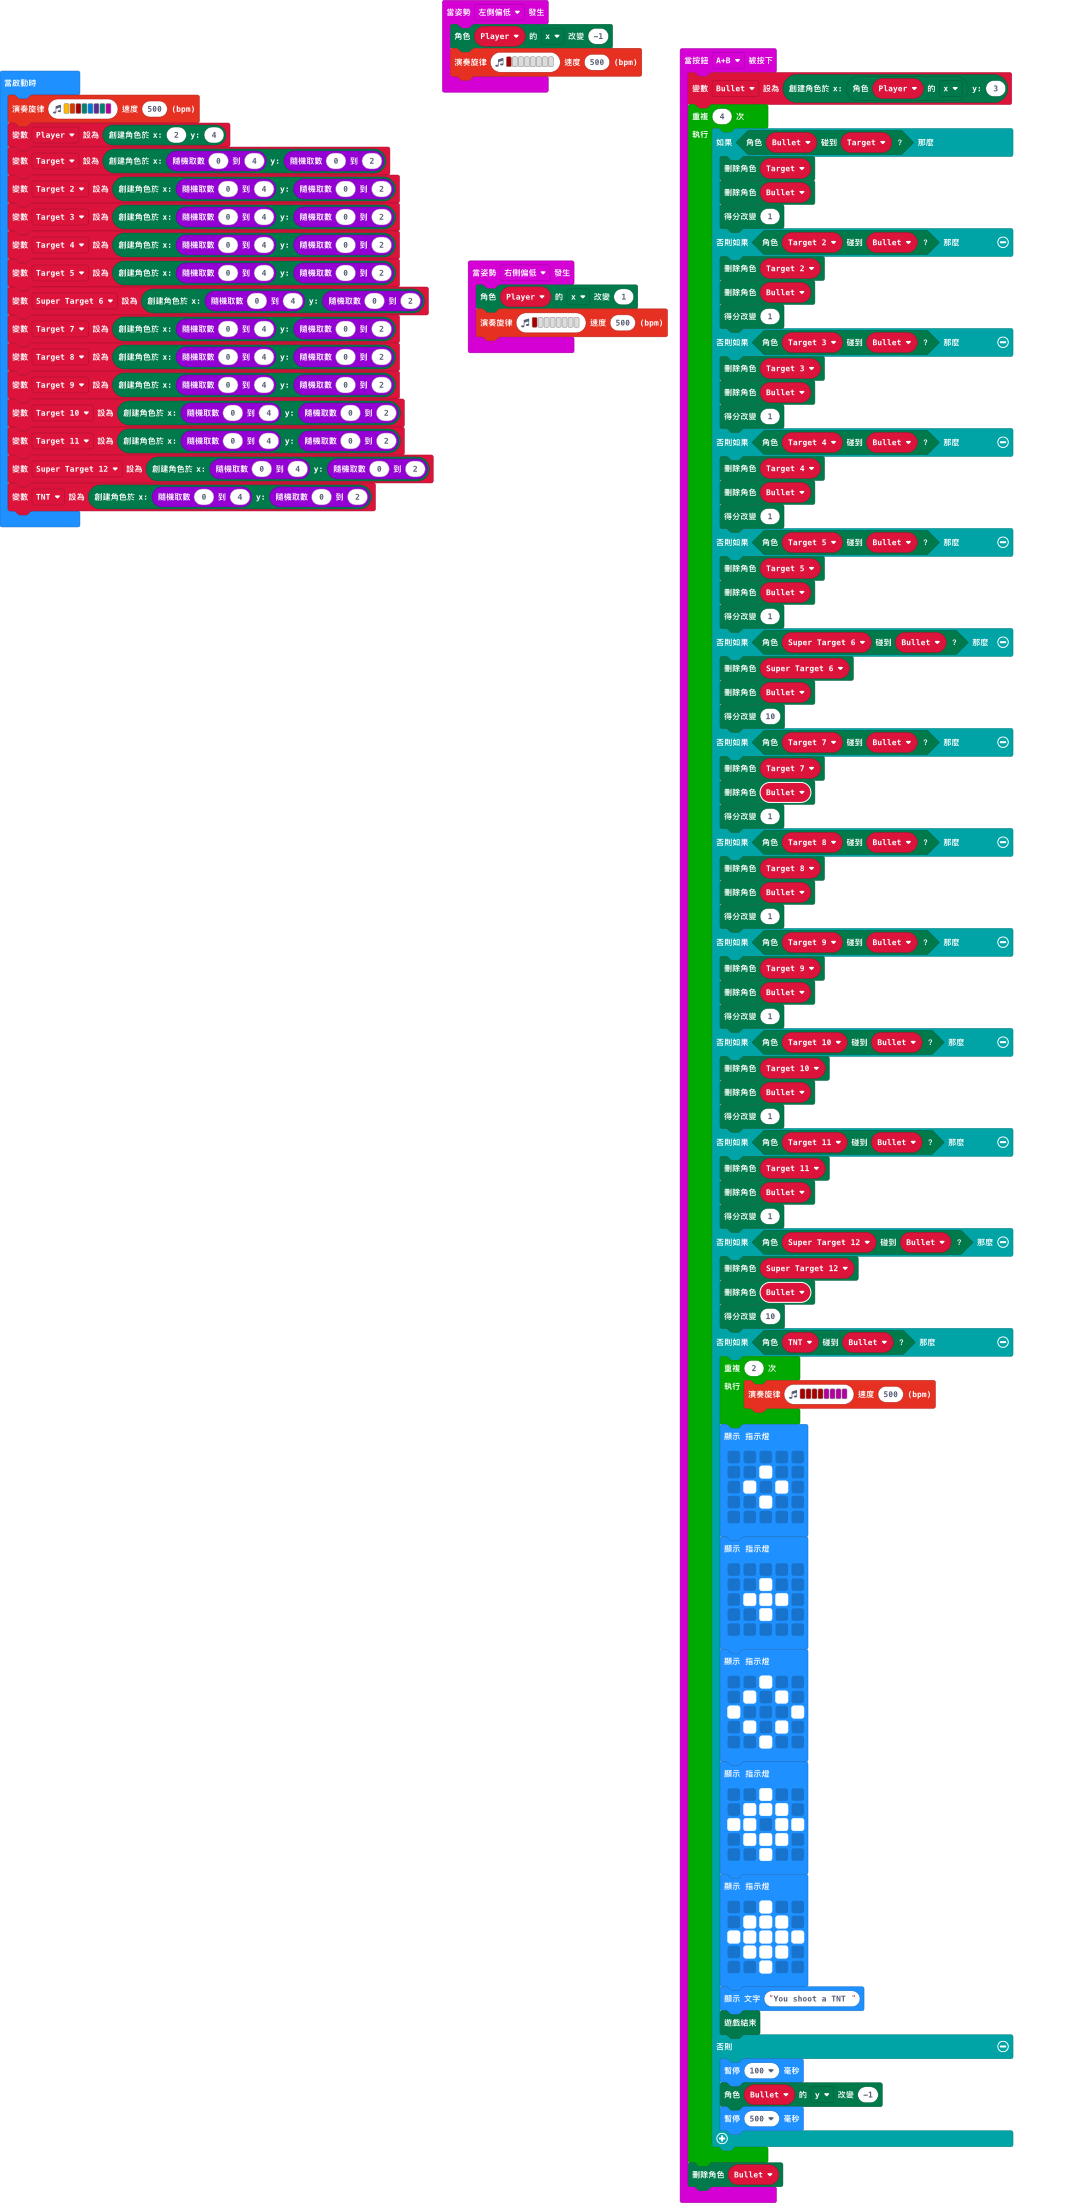
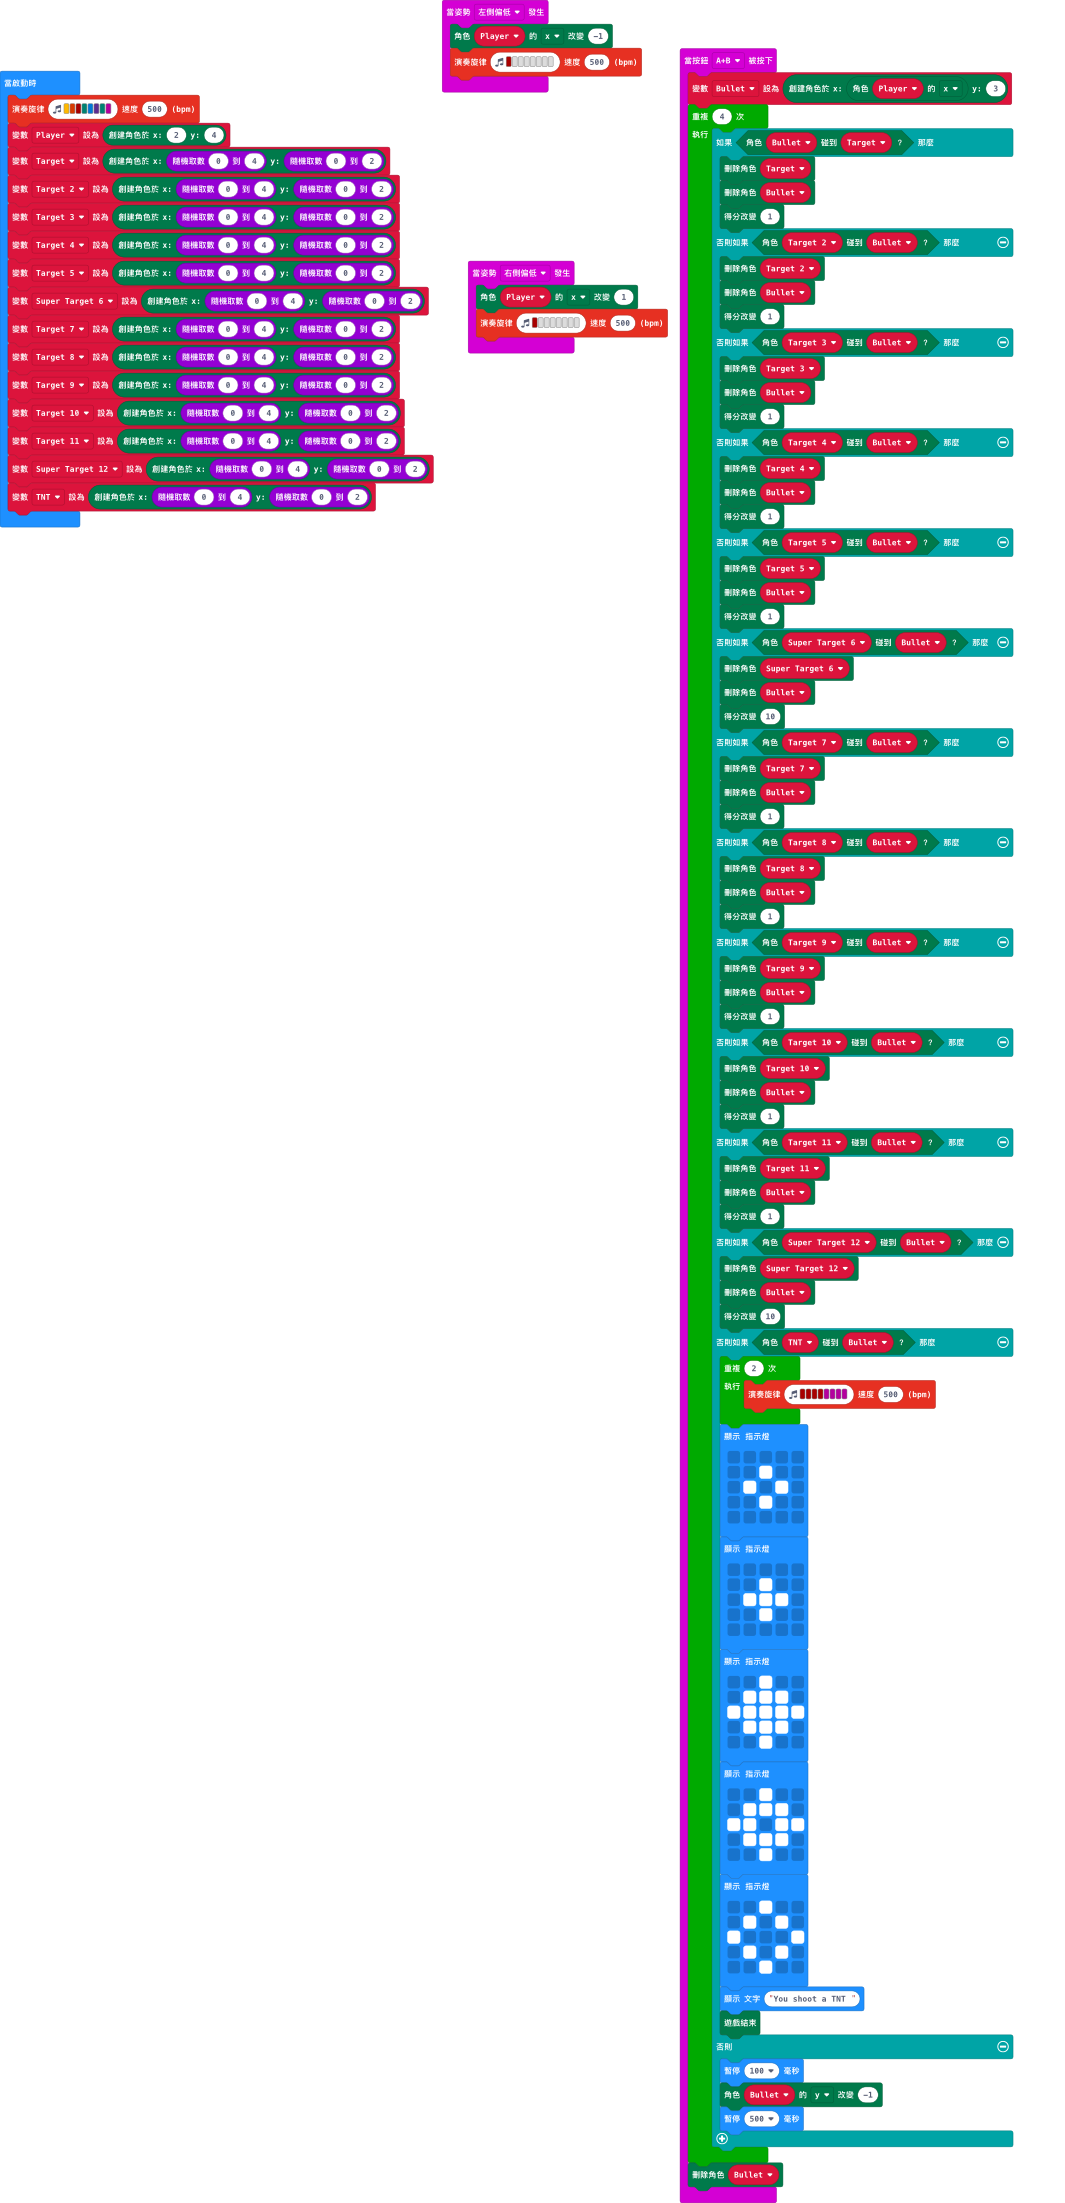
更新 main.blocks, main.ts, main.py

diff --git a/main.ts b/main.ts
@@ -73,9 +73,9 @@ input.onButtonPressed(Button.AB, function () {
                 `)
             basic.showLeds(`
                 . . # . .
-                . # . # .
-                # . . . #
-                . # . # .
+                . # # # .
+                # # # # #
+                . # # # .
                 . . # . .
                 `)
             basic.showLeds(`
@@ -87,9 +87,9 @@ input.onButtonPressed(Button.AB, function () {
                 `)
             basic.showLeds(`
                 . . # . .
-                . # # # .
-                # # # # #
-                . # # # .
+                . # . # .
+                # . . . #
+                . # . # .
                 . . # . .
                 `)
             basic.showString("You shoot a TNT ")

diff --git a/main.py b/main.py
@@ -1,35 +1,100 @@
-def on_button_pressed_a():
+def on_gesture_tilt_left():
     Player.change(LedSpriteProperty.X, -1)
-input.on_button_pressed(Button.A, on_button_pressed_a)
+    music.play_melody("C5 - - - - - - - ", 500)
+input.on_gesture(Gesture.TILT_LEFT, on_gesture_tilt_left)
 
 def on_button_pressed_ab():
     global Bullet
     Bullet = game.create_sprite(Player.get(LedSpriteProperty.X), 3)
     for index in range(4):
-        if Bullet.is_touching(Enemy):
-            Enemy.delete()
+        if Bullet.is_touching(Target):
+            Target.delete()
             Bullet.delete()
             game.add_score(1)
         elif Target_2.is_touching(Bullet):
             Target_2.delete()
             Bullet.delete()
             game.add_score(1)
-        elif Enemy_3.is_touching(Bullet):
-            Enemy_3.delete()
+        elif Target_3.is_touching(Bullet):
+            Target_3.delete()
             Bullet.delete()
             game.add_score(1)
         elif Target_4.is_touching(Bullet):
             Target_4.delete()
             Bullet.delete()
             game.add_score(1)
-        elif Enemy_5.is_touching(Bullet):
-            Enemy_5.delete()
+        elif Target_5.is_touching(Bullet):
+            Target_5.delete()
             Bullet.delete()
             game.add_score(1)
         elif Super_Target_6.is_touching(Bullet):
             Super_Target_6.delete()
             Bullet.delete()
             game.add_score(10)
+        elif Target_7.is_touching(Bullet):
+            Target_7.delete()
+            Bullet.delete()
+            game.add_score(1)
+        elif Target_8.is_touching(Bullet):
+            Target_8.delete()
+            Bullet.delete()
+            game.add_score(1)
+        elif Target_9.is_touching(Bullet):
+            Target_9.delete()
+            Bullet.delete()
+            game.add_score(1)
+        elif Target_10.is_touching(Bullet):
+            Target_10.delete()
+            Bullet.delete()
+            game.add_score(1)
+        elif Target_11.is_touching(Bullet):
+            Target_11.delete()
+            Bullet.delete()
+            game.add_score(1)
+        elif Super_Target_12.is_touching(Bullet):
+            Super_Target_12.delete()
+            Bullet.delete()
+            game.add_score(10)
+        elif TNT.is_touching(Bullet):
+            for index2 in range(2):
+                music.play_melody("C5 C5 C5 C5 C C C C ", 500)
+            basic.show_leds("""
+                . . . . .
+                                . . # . .
+                                . # . # .
+                                . . # . .
+                                . . . . .
+            """)
+            basic.show_leds("""
+                . . . . .
+                                . . # . .
+                                . # # # .
+                                . . # . .
+                                . . . . .
+            """)
+            basic.show_leds("""
+                . . # . .
+                                . # . # .
+                                # . . . #
+                                . # . # .
+                                . . # . .
+            """)
+            basic.show_leds("""
+                . . # . .
+                                . # # # .
+                                # # . # #
+                                . # # # .
+                                . . # . .
+            """)
+            basic.show_leds("""
+                . . # . .
+                                . # # # .
+                                # # # # #
+                                . # # # .
+                                . . # . .
+            """)
+            basic.show_string("You shoot a TNT ")
+            game.game_over()
         else:
             basic.pause(100)
             Bullet.change(LedSpriteProperty.Y, -1)
@@ -37,22 +102,38 @@ def on_button_pressed_ab():
     Bullet.delete()
 input.on_button_pressed(Button.AB, on_button_pressed_ab)
 
-def on_button_pressed_b():
+def on_gesture_tilt_right():
     Player.change(LedSpriteProperty.X, 1)
-input.on_button_pressed(Button.B, on_button_pressed_b)
+    music.play_melody("C5 - - - - - - - ", 500)
+input.on_gesture(Gesture.TILT_RIGHT, on_gesture_tilt_right)
 
 Bullet: game.LedSprite = None
+TNT: game.LedSprite = None
+Super_Target_12: game.LedSprite = None
+Target_11: game.LedSprite = None
+Target_10: game.LedSprite = None
+Target_9: game.LedSprite = None
+Target_8: game.LedSprite = None
+Target_7: game.LedSprite = None
 Super_Target_6: game.LedSprite = None
-Enemy_5: game.LedSprite = None
+Target_5: game.LedSprite = None
 Target_4: game.LedSprite = None
-Enemy_3: game.LedSprite = None
+Target_3: game.LedSprite = None
 Target_2: game.LedSprite = None
-Enemy: game.LedSprite = None
+Target: game.LedSprite = None
 Player: game.LedSprite = None
+music.play_melody("A B C5 F E D F C ", 500)
 Player = game.create_sprite(2, 4)
-Enemy = game.create_sprite(randint(0, 4), randint(0, 2))
+Target = game.create_sprite(randint(0, 4), randint(0, 2))
 Target_2 = game.create_sprite(randint(0, 4), randint(0, 2))
-Enemy_3 = game.create_sprite(randint(0, 4), randint(0, 2))
+Target_3 = game.create_sprite(randint(0, 4), randint(0, 2))
 Target_4 = game.create_sprite(randint(0, 4), randint(0, 2))
-Enemy_5 = game.create_sprite(randint(0, 4), randint(0, 2))
+Target_5 = game.create_sprite(randint(0, 4), randint(0, 2))
 Super_Target_6 = game.create_sprite(randint(0, 4), randint(0, 2))
+Target_7 = game.create_sprite(randint(0, 4), randint(0, 2))
+Target_8 = game.create_sprite(randint(0, 4), randint(0, 2))
+Target_9 = game.create_sprite(randint(0, 4), randint(0, 2))
+Target_10 = game.create_sprite(randint(0, 4), randint(0, 2))
+Target_11 = game.create_sprite(randint(0, 4), randint(0, 2))
+Super_Target_12 = game.create_sprite(randint(0, 4), randint(0, 2))
+TNT = game.create_sprite(randint(0, 4), randint(0, 2))
